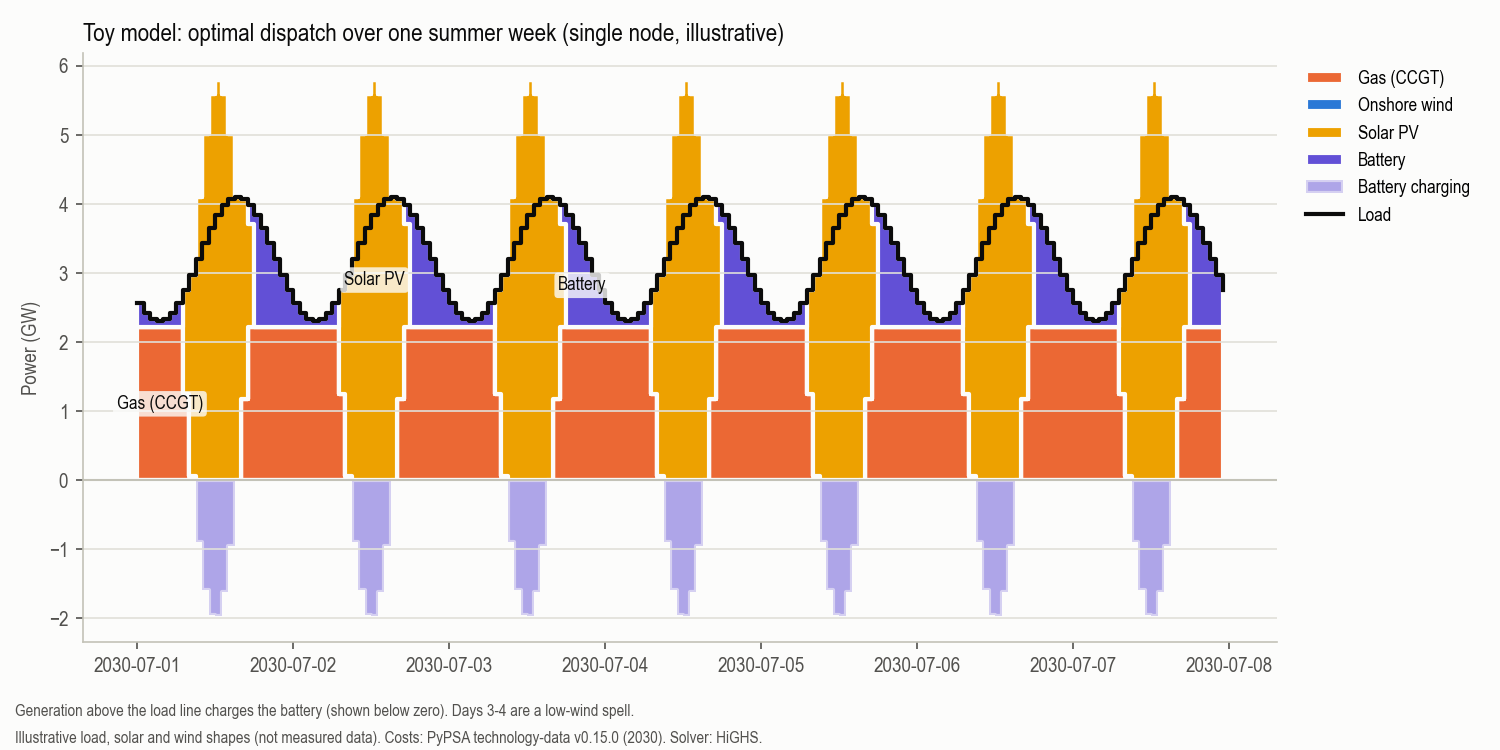
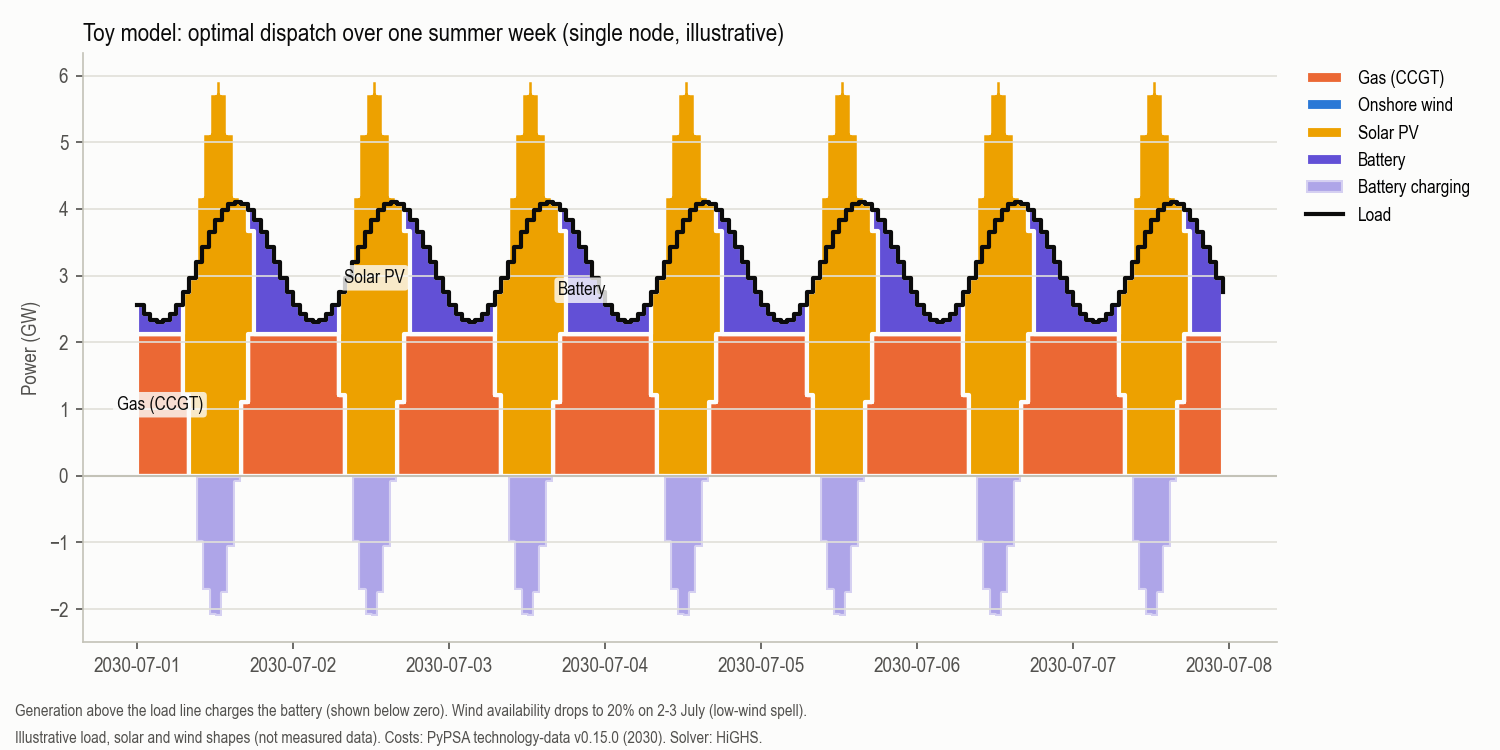
fix: battery round-trip efficiency, gas in test fixture, horizon and register checks

diff --git a/src/tn2030/toy.py b/src/tn2030/toy.py
@@ -23,15 +23,16 @@ def _illustrative_profiles(snapshots: pd.DatetimeIndex) -> pd.DataFrame:
     """Synthetic daily shapes for load (MW), solar and wind availability (p.u.).
 
     ILLUSTRATIVE ONLY: smooth curves chosen to look like a summer day, not measured data.
-    Load peaks at 15:00 around 4.1 GW, the same order of magnitude as Tunisia's ~4 GW summer peak.
-    Days 3 and 4 are a low-wind spell: real weather has multi-day lulls, which is what backup is for.
+    Load peaks at 15:00 around 4.1 GW.
+    Days 2 and 3 are a low-wind spell: real weather has multi-day lulls, which is what backup is for.
+    Day 2 falls inside the 48 h test fixture, so the fixture also needs gas.
     """
     h = snapshots.hour.to_numpy()
     day = (snapshots.normalize() - snapshots[0].normalize()).days.to_numpy()
     load = 3200 + 900 * np.cos(2 * np.pi * (h - 15) / 24)
     solar = 0.85 * np.clip(np.sin(np.pi * (h - 6) / 12), 0, None)  # daylight 06:00-18:00
     wind = 0.35 + 0.10 * np.cos(2 * np.pi * (h - 3) / 24)  # a bit windier at night
-    wind = np.where(np.isin(day, (2, 3)), wind * 0.2, wind)  # lull: 20% of normal wind
+    wind = np.where(np.isin(day, (1, 2)), wind * 0.2, wind)  # lull on days 2-3: 20% of normal wind
     return pd.DataFrame({"load": load, "solar": solar, "wind": wind}, index=snapshots)
 
 
@@ -44,12 +45,13 @@ def build_toy_network(register: dict[str, float], hours: int = 168, step_hours: 
     """
     r = register
     rate = r["discount_rate"]
-    horizon = hours / HOURS_PER_YEAR
 
     n = pypsa.Network()
     snapshots = pd.date_range("2030-07-01 00:00", periods=hours // step_hours, freq=f"{step_hours}h")
     n.set_snapshots(snapshots)
     n.snapshot_weightings.loc[:, :] = step_hours  # each snapshot stands for step_hours hours
+    # Share of a year actually modelled (from the snapshots, so a leftover partial step is not counted).
+    horizon = n.snapshot_weightings.generators.sum() / HOURS_PER_YEAR
 
     profiles = _illustrative_profiles(snapshots)
 
@@ -81,7 +83,8 @@ def build_toy_network(register: dict[str, float], hours: int = 168, step_hours: 
                                 r["toy_battery_inverter_lifetime"], rate)
     storage = annualised_capex(r["toy_battery_storage_investment"] * 1000, 0.0,
                                r["toy_battery_storage_lifetime"], rate)
-    eff = r["toy_battery_inverter_efficiency"]
+    # The source value is round-trip; split it equally between charging and discharging (as PyPSA-Earth does).
+    eff = r["toy_battery_inverter_efficiency"] ** 0.5
     n.add("StorageUnit", "battery", bus="TN", carrier="battery", p_nom_extendable=True,
           max_hours=max_hours, efficiency_store=eff, efficiency_dispatch=eff,
           cyclic_state_of_charge=True,  # end the period with the same charge it started with

diff --git a/tests/test_toy_network.py b/tests/test_toy_network.py
@@ -1,6 +1,6 @@
 import pytest
 
-from tn2030.toy import build_toy_network
+from tn2030.toy import annualised_capex, build_toy_network
 
 
 def test_toy_solves_optimal(toy_network):
@@ -44,10 +44,30 @@ def test_all_bus_carriers_are_defined(toy_network):
     assert set(toy_network.buses.carrier) <= set(toy_network.carriers.index)
 
 
+def _solar_full_year_capex(reg):
+    return annualised_capex(reg["toy_solar_investment"] * 1000, reg["toy_solar_fom"],
+                            reg["toy_solar_lifetime"], reg["discount_rate"])
+
+
 def test_toy_capital_cost_scaled_to_horizon(reg, toy_network):
     # A 48 h model must carry 48/8760 of the yearly capital cost, or it would overvalue capex.
-    from tn2030.toy import annualised_capex
+    assert toy_network.generators.at["solar", "capital_cost"] == pytest.approx(_solar_full_year_capex(reg) * 48 / 8760)
 
-    full_year = annualised_capex(reg["toy_solar_investment"] * 1000, reg["toy_solar_fom"],
-                                 reg["toy_solar_lifetime"], reg["discount_rate"])
-    assert toy_network.generators.at["solar", "capital_cost"] == pytest.approx(full_year * 48 / 8760)
+
+def test_capital_cost_follows_modelled_hours_when_step_does_not_divide(reg):
+    # 50 h at 3 h steps gives 16 snapshots = 48 modelled hours; capex must match those 48 h.
+    n = build_toy_network(reg, hours=50, step_hours=3)
+    assert n.snapshot_weightings.generators.sum() == 48
+    assert n.generators.at["solar", "capital_cost"] == pytest.approx(_solar_full_year_capex(reg) * 48 / 8760)
+
+
+def test_battery_round_trip_matches_register(reg, toy_network):
+    # technology-data gives the inverter efficiency as round trip; each direction is its square root.
+    su = toy_network.storage_units.loc["battery"]
+    assert su.efficiency_store * su.efficiency_dispatch == pytest.approx(reg["toy_battery_inverter_efficiency"])
+
+
+def test_fixture_builds_gas(toy_network):
+    # Later gas/CO2 tests use this fixture; with no gas built they would pass trivially.
+    toy_network.optimize(solver_name="highs")
+    assert toy_network.generators.p_nom_opt["CCGT"] > 0

diff --git a/scripts/phase1_toy_model.py b/scripts/phase1_toy_model.py
@@ -26,7 +26,7 @@ def summarize(n) -> None:
     w = n.snapshot_weightings.generators
     gen = n.generators_t.p.mul(w, axis=0).sum()
     print("Built capacity (MW):")
-    for name, mw in n.generators.p_nom_opt.clip(lower=0).items():  # solver may return -0.0
+    for name, mw in (n.generators.p_nom_opt.clip(lower=0) + 0.0).items():  # + 0.0 turns solver's -0.0 into 0.0
         print(f"  {LABELS[name]:<14}{mw:8.0f}")
     print(f"  {'Battery':<14}{n.storage_units.p_nom_opt['battery']:8.0f}  "
           f"({n.storage_units.max_hours['battery']:.0f} h)")
@@ -89,7 +89,7 @@ def plot_dispatch(n, path: Path) -> None:
         ax.spines[side].set_color("#c3c2b7")
     ax.legend(loc="upper left", bbox_to_anchor=(1.01, 1), frameon=False, fontsize=9)
     fig.text(0.01, 0.045, "Generation above the load line charges the battery (shown below zero). "
-             "Days 3-4 are a low-wind spell.", color=MUTED, fontsize=8)
+             "Wind availability drops to 20% on 2-3 July (low-wind spell).", color=MUTED, fontsize=8)
     fig.text(0.01, 0.01, "Illustrative load, solar and wind shapes (not measured data). "
              "Costs: PyPSA technology-data v0.15.0 (2030). Solver: HiGHS.",
              color=MUTED, fontsize=8)

diff --git a/src/tn2030/register.py b/src/tn2030/register.py
@@ -25,8 +25,14 @@ def load_register(path: Path) -> dict[str, float]:
 
     # A "sourced" number without a link is not sourced: refuse it.
     sourced = usable[usable["type"] == "sourced"]
-    missing_url = sourced["id"][sourced["source_url"].fillna("").str.strip() == ""].tolist()
+    # astype(str): an all-empty column is read as float NaN, which has no .str accessor.
+    missing_url = sourced["id"][sourced["source_url"].fillna("").astype(str).str.strip() == ""].tolist()
     if missing_url:
         raise ValueError(f"sourced rows without source_url: {missing_url}")
+
+    # A usable row must carry a number, otherwise NaN would flow silently into the model.
+    no_value = usable["id"][usable["value"].isna()].tolist()
+    if no_value:
+        raise ValueError(f"rows without a value (fill it or mark them pending): {no_value}")
 
     return {row.id: float(row.value) for row in usable.itertuples()}

diff --git a/tests/test_assumptions_register.py b/tests/test_assumptions_register.py
@@ -42,6 +42,12 @@ def test_load_register_rejects_sourced_row_without_url(tmp_path):
         load_register(path)
 
 
+def test_load_register_rejects_usable_row_without_value(tmp_path):
+    path = _write_register(tmp_path / "reg.xlsx", [_row("flex_max_hours", None, "assumption", url="")])
+    with pytest.raises(ValueError, match="value"):
+        load_register(path)
+
+
 def test_load_register_rejects_duplicate_ids(tmp_path):
     path = _write_register(tmp_path / "reg.xlsx", [
         _row("re_target_2030", 0.35, "sourced"),

diff --git a/docs/phase1-toy-model.md b/docs/phase1-toy-model.md
@@ -27,8 +27,8 @@ the cheapest system look like under these assumptions", nothing more.
 | Demand | `Load` with hourly `p_set` | illustrative summer-day shape, peak ~4.1 GW |
 | Gas (CCGT) | `Generator`, `p_nom_extendable=True` | technology-data v0.15.0: 1,109 EUR/kW, 58 % efficiency, gas 28.4 EUR/MWh_th |
 | Solar PV | `Generator` + hourly `p_max_pu` | 482 EUR/kW, illustrative daylight curve |
-| Onshore wind | `Generator` + hourly `p_max_pu` | 1,383 EUR/kW, illustrative curve with a 2-day lull |
-| Battery | `StorageUnit`, `max_hours=4` | inverter 214 EUR/kW + storage 190 EUR/kWh, 96 % each way |
+| Onshore wind | `Generator` + hourly `p_max_pu` | 1,383 EUR/kW, illustrative curve with a lull on 2-3 July |
+| Battery | `StorageUnit`, `max_hours=4` | inverter 214 EUR/kW + storage 190 EUR/kWh; 96 % round trip, so √0.96 ≈ 98 % each way (as PyPSA-Earth does) |
 
 Every number comes from [`data/assumptions_register.xlsx`](../data/assumptions_register.xlsx). Load, solar and
 wind **shapes are illustrative**, not measured; they exist only to show the mechanics.
@@ -67,7 +67,7 @@ $$
 | 3 | **Battery power limit** | $0 \le p^{dis}_{s,t},\, p^{ch}_{s,t} \le P_s$ | `StorageUnit.p_nom` |
 | 4 | **State of charge**: energy carried hour to hour, with losses | $e_{s,t} = e_{s,t-1} + w_t\,(\eta\, p^{ch}_{s,t} - p^{dis}_{s,t}/\eta)$ | `StorageUnit` |
 | 5 | **Energy capacity** | $0 \le e_{s,t} \le h_s\, P_s$ ($h_s$ = 4 h) | `max_hours` |
-| 6 | **Cyclic storage**: end the week with the charge it started with | $e_{s,T} = e_{s,0}$ | `cyclic_state_of_charge=True` |
+| 6 | **Cyclic storage**: the charge before the first hour equals the charge after the last hour | $e_{s,-1} = e_{s,T}$ | `cyclic_state_of_charge=True` |
 | 7 | Non-negative capacities | $G_g, P_s \ge 0$ | `p_nom_extendable` |
 
 Everything is **linear**, so this is a linear program (LP) that HiGHS solves exactly in under a second.
@@ -79,11 +79,11 @@ that hour. That is the **marginal electricity price**, one of the outputs of the
 
 | | Result |
 |---|---|
-| Gas (CCGT) built | 2,212 MW, 43 % of generation |
-| Solar PV built | 6,822 MW, 57 % of generation |
+| Gas (CCGT) built | 2,129 MW, 42 % of generation |
+| Solar PV built | 6,981 MW, 58 % of generation |
 | Onshore wind built | 0 MW |
-| Battery built | 2,154 MW / 8,616 MWh (4 h) |
-| Cost of the week | 28.8 M EUR |
+| Battery built | 2,401 MW / 9,604 MWh (4 h) |
+| Cost of the week | 28.7 M EUR |
 
 **Reading the figure:** solar covers the day and over-produces at noon; the surplus charges the battery
 (purple, below zero), which discharges in the evening peak. Gas runs flat at night.
@@ -95,7 +95,9 @@ inputs, so every input must be sourced** (the rule for the real model).
 
 ## Things people often confuse
 
-- **Capacity (MW) vs energy (MWh).** A 2,154 MW battery with 4 h stores 8,616 MWh. Both are decisions.
+- **Capacity (MW) vs energy (MWh).** A 2,401 MW battery with 4 h stores 9,604 MWh. Both are decisions.
+- **Round-trip vs one-way efficiency.** The source gives 96 % for a full charge-discharge cycle; each
+  direction is therefore √0.96 ≈ 98 %. Applying 96 % twice would silently lose 7.8 % instead of 4 %.
 - **"Cheapest" is not "least gas".** The optimizer has no renewable target yet. The 35 % constraint
   is added in Phase 4.
 - **Generation above the load line** is not wasted: it is the battery charging.
